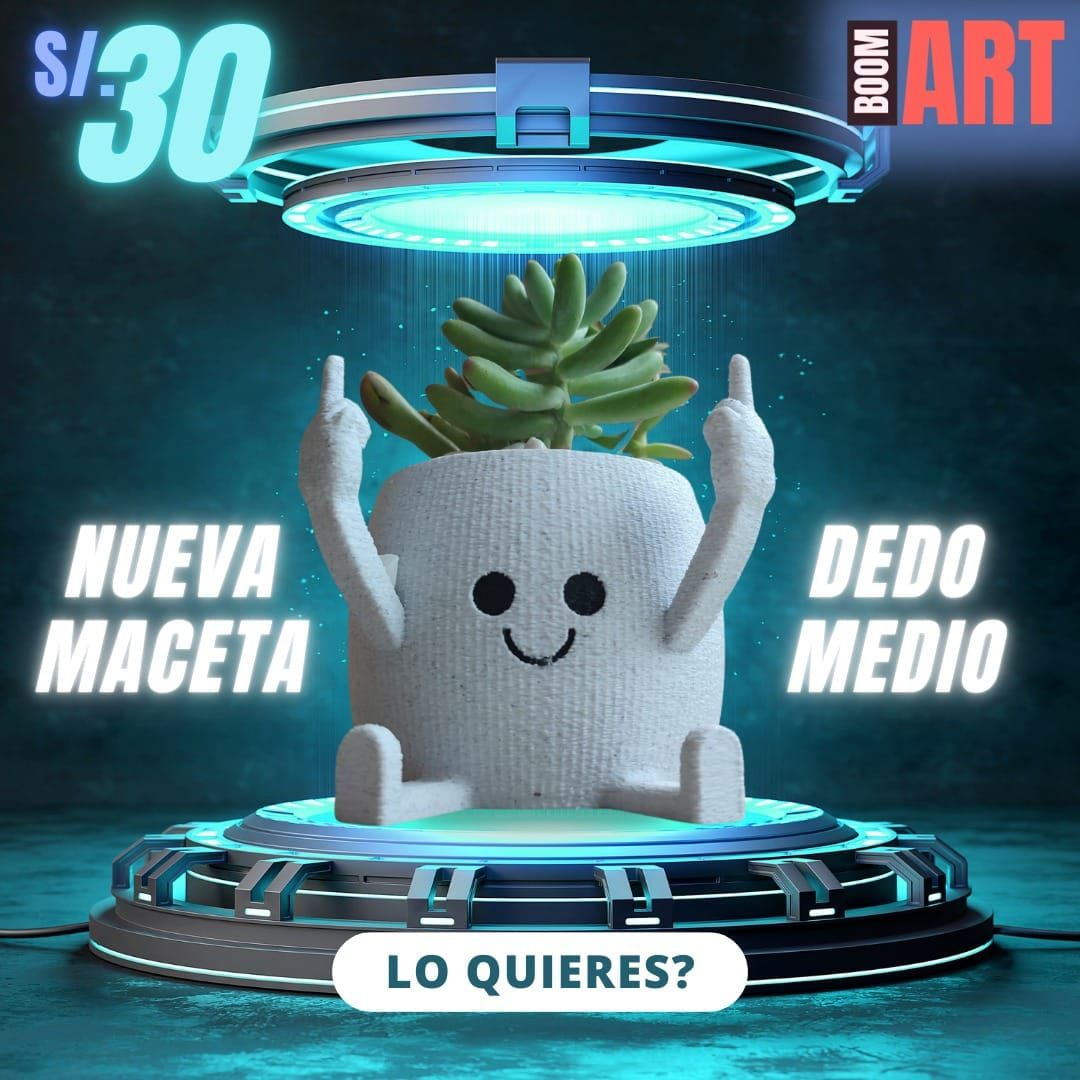
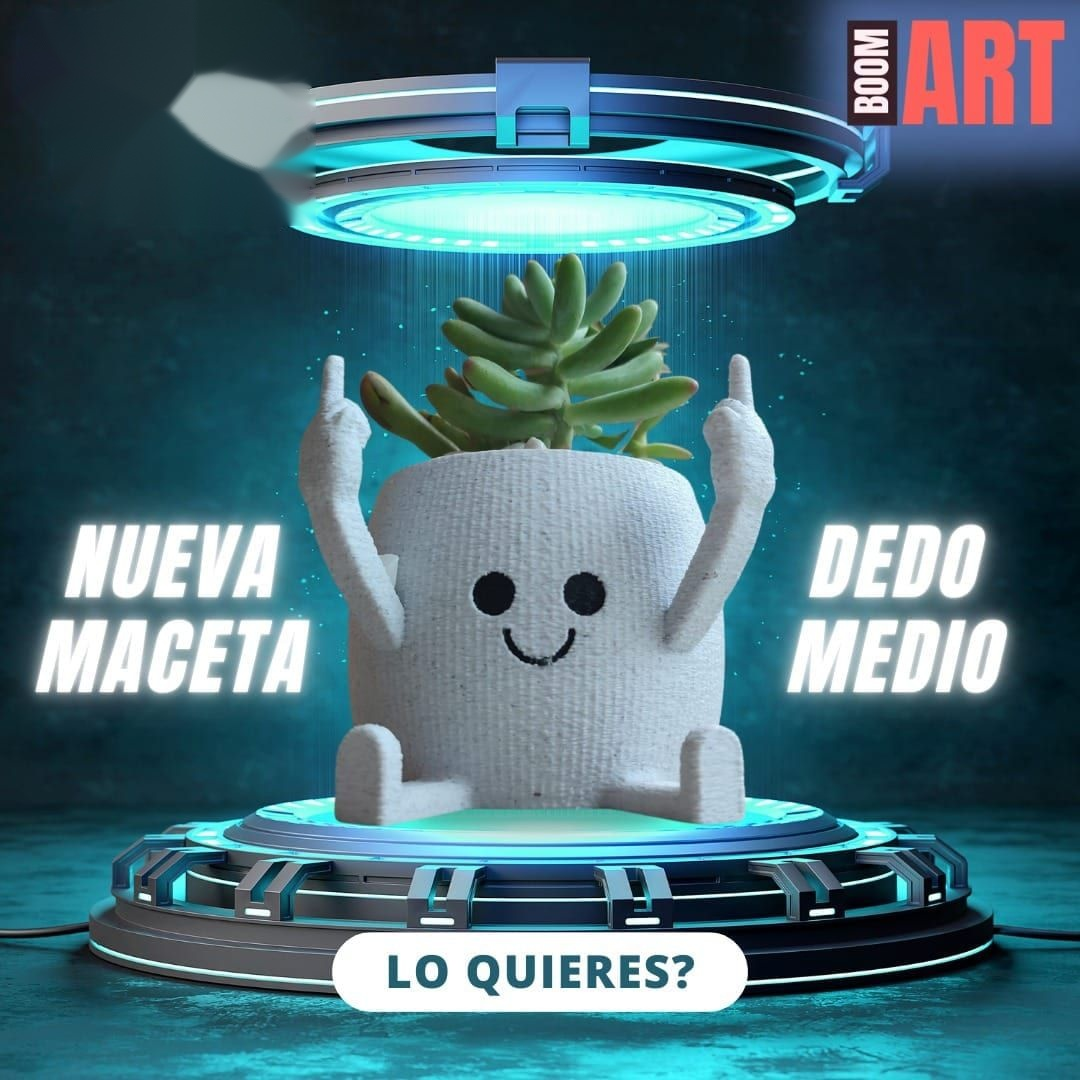
Agrega botón flotante de carrito en móvil y corrige precios editados en fotos
- Botón de carrito flotante (izquierda, junto al de WhatsApp) visible en
  todo momento en móvil: el header deja de ser sticky en pantallas
  chicas y el carrito se perdía al hacer scroll. Abre el mismo panel
  lateral que el ícono del header.
- Corrige por edición de imagen (inpainting) dos fotos de producto con
  un precio incorrecto quemado en la imagen (maceta-dedo-medio.jpg
  mostraba S/30, maceta-pikachu.jpg mostraba "desde S/40"), ambos
  distintos al precio real de la web. Se eliminó el texto del precio
  de la imagen sin tocar el resto del diseño.

Changed region(s): [[0.0, 0.0, 0.3056, 0.2139]]

diff --git a/index.html b/index.html
@@ -32,7 +32,7 @@
     <link rel="preconnect" href="https://fonts.googleapis.com">
     <link rel="preconnect" href="https://fonts.gstatic.com" crossorigin>
     <link href="https://fonts.googleapis.com/css2?family=Inter:wght@400;500;600;700;800&display=swap" rel="stylesheet">
-    <link rel="stylesheet" href="src/styles.css?v=5">
+    <link rel="stylesheet" href="src/styles.css?v=6">
 
     <script type="application/ld+json">
     {
@@ -313,6 +313,15 @@
       </div>
     </dialog>
 
+    <button type="button" class="cart-float" id="cartFloatToggle" aria-haspopup="true" aria-controls="cartDrawer" aria-label="Ver carrito">
+      <svg width="24" height="24" viewBox="0 0 24 24" fill="none" aria-hidden="true">
+        <path d="M3 3h2l2.4 12.4a2 2 0 0 0 2 1.6h7.2a2 2 0 0 0 2-1.6L20 8H6" stroke="currentColor" stroke-width="1.8" stroke-linecap="round" stroke-linejoin="round"/>
+        <circle cx="9" cy="20" r="1.4" fill="currentColor"/>
+        <circle cx="17" cy="20" r="1.4" fill="currentColor"/>
+      </svg>
+      <span class="cart-float-count" id="cartCountFloat" hidden>0</span>
+    </button>
+
     <a class="ba-wa" href="https://wa.me/51925666542?text=Hola%20BoomArt%20%F0%9F%91%8B%20Tengo%20una%20consulta" target="_blank" rel="noopener" aria-label="Escríbenos por WhatsApp">
       <span class="ba-wa__label">¿Dudas? Escríbenos</span>
       <span class="ba-wa__icon" aria-hidden="true">
@@ -326,7 +335,7 @@
     <script src="src/cart.js?v=5"></script>
     <script src="src/products.js?v=5"></script>
     <script src="src/app.js?v=6"></script>
-    <script src="src/checkout.js?v=5"></script>
+    <script src="src/checkout.js?v=6"></script>
     <script src="src/products-loader.js?v=5"></script>
   </body>
 </html>

diff --git a/src/checkout.js b/src/checkout.js
@@ -11,6 +11,8 @@
   const money = (value) => `S/${Number(value || 0).toFixed(2)}`;
 
   const cartToggle = document.querySelector("#cartToggle");
+  const cartFloatToggle = document.querySelector("#cartFloatToggle");
+  const cartCountFloatEl = document.querySelector("#cartCountFloat");
   const cartDrawer = document.querySelector("#cartDrawer");
   const cartBackdrop = document.querySelector("#cartBackdrop");
   const closeCartBtn = document.querySelector("#closeCart");
@@ -74,6 +76,8 @@
 
     cartCountEl.textContent = String(cartState.totals.itemCount);
     cartCountEl.hidden = cartState.totals.itemCount === 0;
+    cartCountFloatEl.textContent = String(cartState.totals.itemCount);
+    cartCountFloatEl.hidden = cartState.totals.itemCount === 0;
 
     if (!cartState.lines.length) {
       cartLinesEl.innerHTML = `<p class="cart-empty">Tu carrito está vacío. Agrega productos desde el catálogo.</p>`;
@@ -89,6 +93,7 @@
     cartDrawer.hidden = false;
     cartBackdrop.hidden = false;
     cartToggle.setAttribute("aria-expanded", "true");
+    cartFloatToggle.setAttribute("aria-expanded", "true");
     closeCartBtn.focus();
   };
 
@@ -96,6 +101,7 @@
     cartDrawer.hidden = true;
     cartBackdrop.hidden = true;
     cartToggle.setAttribute("aria-expanded", "false");
+    cartFloatToggle.setAttribute("aria-expanded", "false");
     cartToggle.focus();
   };
 
@@ -132,6 +138,10 @@
   });
 
   cartToggle.addEventListener("click", () => {
+    if (cartDrawer.hidden) openCart();
+    else closeCart();
+  });
+  cartFloatToggle.addEventListener("click", () => {
     if (cartDrawer.hidden) openCart();
     else closeCart();
   });

diff --git a/src/styles.css b/src/styles.css
@@ -1512,6 +1512,49 @@ h2 {
   }
 }
 
+/* Botón flotante de carrito: solo en móvil, para que siempre se pueda
+   llegar al carrito aunque se haya scrolleado lejos del header. */
+.cart-float {
+  display: none;
+  position: fixed;
+  left: 16px;
+  bottom: 16px;
+  z-index: 45;
+  width: 56px;
+  height: 56px;
+  border: 0;
+  border-radius: 50%;
+  background: var(--red);
+  color: white;
+  align-items: center;
+  justify-content: center;
+  box-shadow: 0 6px 22px rgba(0, 0, 0, 0.28);
+  cursor: pointer;
+}
+
+.cart-float-count {
+  position: absolute;
+  top: -4px;
+  right: -4px;
+  display: grid;
+  min-width: 20px;
+  height: 20px;
+  padding: 0 4px;
+  border-radius: 999px;
+  background: var(--gold);
+  color: var(--black);
+  font-size: 0.72rem;
+  font-weight: 900;
+  place-items: center;
+  line-height: 1;
+}
+
+@media (max-width: 720px) {
+  .cart-float {
+    display: flex;
+  }
+}
+
 /* Enlaces de páginas legales en el footer */
 .footer-links {
   display: flex;

diff --git a/nosotros.html b/nosotros.html
@@ -30,7 +30,7 @@
     <link rel="preconnect" href="https://fonts.googleapis.com">
     <link rel="preconnect" href="https://fonts.gstatic.com" crossorigin>
     <link href="https://fonts.googleapis.com/css2?family=Inter:wght@400;500;600;700;800&display=swap" rel="stylesheet">
-    <link rel="stylesheet" href="src/styles.css?v=5">
+    <link rel="stylesheet" href="src/styles.css?v=6">
   </head>
   <body>
     <header class="site-header">

diff --git a/politicas.html b/politicas.html
@@ -30,7 +30,7 @@
     <link rel="preconnect" href="https://fonts.googleapis.com">
     <link rel="preconnect" href="https://fonts.gstatic.com" crossorigin>
     <link href="https://fonts.googleapis.com/css2?family=Inter:wght@400;500;600;700;800&display=swap" rel="stylesheet">
-    <link rel="stylesheet" href="src/styles.css?v=5">
+    <link rel="stylesheet" href="src/styles.css?v=6">
   </head>
   <body>
     <header class="site-header">
